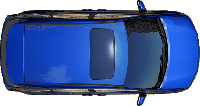
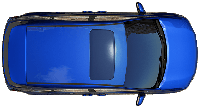
2D_graphic tunning

Changed region(s): [[0.0, 0.0, 1.0, 1.0], [0.69, 0.3113, 0.75, 0.3396]]

diff --git a/2D_graphic/src/car.cpp b/2D_graphic/src/car.cpp
@@ -27,6 +27,7 @@ void Car::look_around(std::vector<std::shared_ptr<Car>> &all_cars)
     can_accelerate = true;
     need_breaking = false;
     can_change_line = true;
+    car_in_front_speed_delta = 0;
     
     for(auto car : all_cars)
     {
@@ -42,7 +43,7 @@ void Car::look_around(std::vector<std::shared_ptr<Car>> &all_cars)
         auto car_pos_y = car->get_pos_y();
 
         // check if i'm in fast line
-        if(std::fabs(pos_y) > 0.65)
+        if(std::fabs(pos_y) < 0.65)
             in_fast_line = true;
 
         auto in_front = direction == 1 ? pos_x > car_pos_x : pos_x < car_pos_x;
@@ -53,7 +54,13 @@ void Car::look_around(std::vector<std::shared_ptr<Car>> &all_cars)
 
         // check if car is in front of me
         if(in_front && distance < 1.4 && same_line)
+        {
             car_in_front = true;
+            
+            auto speed_delta = std::fabs(curr_speed - car->get_curr_speed());
+            if(speed_delta > car_in_front_speed_delta)
+                car_in_front_speed_delta = speed_delta;
+        }
 
         // check if i need to brake
         if(car_in_front && car->get_curr_speed() < curr_speed)
@@ -84,10 +91,15 @@ void Car::drive(std::vector<std::shared_ptr<Car>> &all_cars)
         {
             // can I change line?
             if(can_change_line)
+            {
                 // yes - change line
-                acceleration_y = 0.01;
-
-            acceleration -= 0.05;
+                acceleration_y -= 0.001;
+                acceleration -= car_in_front_speed_delta / 500;
+            }
+            else
+            {
+                acceleration -= 0.05;
+            };
         };
 
         // don't need to brake anymore
@@ -99,8 +111,16 @@ void Car::drive(std::vector<std::shared_ptr<Car>> &all_cars)
             acceleration += 0.01;
 
         // if I'm in fast line can I change to slow line?
-        if(in_fast_line && can_change_line && !acceleration_y)
-            acceleration_y = -0.01;
+        if(in_fast_line && can_change_line)
+        {
+            if(acceleration_y < 0)
+                acceleration_y = 0;
+            
+            acceleration_y += 0.001;
+        }
+        
+        if(!can_accelerate && car_in_front && std::fabs(pos_y) < 1)
+            acceleration_y = acceleration_y * 2;
 
         // stay in lines
         if(direction == -1)
@@ -133,6 +153,12 @@ void Car::drive(std::vector<std::shared_ptr<Car>> &all_cars)
         };
 
         // check if I not breaking or accelerating to quick
+        if(acceleration_y > 0.01)
+            acceleration_y = 0.01;
+
+        if(acceleration_y < -0.01)
+            acceleration_y = -0.01;
+            
         if(acceleration < -10)
             acceleration = -10;
 
@@ -149,17 +175,20 @@ void Car::drive(std::vector<std::shared_ptr<Car>> &all_cars)
         if(curr_speed < 100)
             curr_speed = 100;
 
+
+
         pos_x += ((-direction * curr_speed) / 2400.0);
-        auto change_y = acceleration_y * (curr_speed / 140);
+
+        auto change_y = acceleration_y * std::fabs((curr_speed / 140));
         pos_y = pos_y > 0 ? pos_y + change_y : pos_y - change_y;
     }
     else
     {
-        type = 4;
+        type = rand() % 5;
         direction = rand() % 2 ? 1 : -1;
 
         pos_x = direction == 1 ? 25 : 0;
-        pos_y = direction == 1 ? -0.3 : 0.3;
+        pos_y = direction == 1 ? -1 : 1;
 
         curr_speed = max_speed = rand() % 50 + 100;
         acceleration = 0;
@@ -229,4 +258,12 @@ float Car::get_pos_y()
 float Car::get_curr_speed()
 {
     return curr_speed;
+};
+
+
+
+
+float Car::get_rotation()
+{
+    return acceleration_y;
 };

diff --git a/2D_graphic/src/application.cpp b/2D_graphic/src/application.cpp
@@ -85,9 +85,9 @@ int MyApp::init(int argc, char *argv[])
     for(int i = 0; i < 5; i++)
     {
         std::string file = std::string("images/car") + std::to_string(i + 1) + ".png";
-        cars_images[i] = gdk_pixbuf_new_from_file(file.c_str(), 0);
-        if(!cars_images[i])
-            std::cout << i << std::endl;
+        auto img = gdk_pixbuf_new_from_file(file.c_str(), 0);
+        cars_images[i] = gdk_pixbuf_scale_simple(img, gdk_pixbuf_get_width(img) / 3, gdk_pixbuf_get_height(img) / 3, GDK_INTERP_BILINEAR);
+        g_object_unref(img);
     };
 
     for(int i = 0; i < NUM_CARS; i++)
@@ -166,13 +166,13 @@ void MyApp::draw_frame()
         r1.x = r1.x - middle_of_highway_x;
         r1.x += middle_of_screen_x + (12 - car->get_pos_x());
         
-        r1.y = window_size_y / 2 + (83 + car->get_pos_y() * 70) * zoom - std::floor(gdk_pixbuf_get_width(img) / 2.0) * zoom;
+        r1.y = window_size_y / 2 + (15 + car->get_pos_y() * 70) * zoom - std::floor(gdk_pixbuf_get_width(img) / 2.0) * zoom;
 
         r1.width = gdk_pixbuf_get_width(img) * zoom - 1;
         r1.height = gdk_pixbuf_get_width(img) * zoom - 1;
         
         if(gdk_rectangle_intersect(&r1, &r2, &dest)) 
-            gdk_pixbuf_composite(img, frame, dest.x, dest.y, dest.width - 1, dest.height - 1, r1.x - 1, r1.y - 1, zoom / 3.0, zoom / 3.0, GDK_INTERP_NEAREST, 255);
+            gdk_pixbuf_composite(img, frame, dest.x, dest.y, dest.width - 1, dest.height - 1, r1.x - 1, r1.y - 1, zoom, zoom, GDK_INTERP_BILINEAR, 255);
         
         if(car->get_direction() == 1)
             g_object_unref(img);

diff --git a/2D_graphic/src/car.hpp b/2D_graphic/src/car.hpp
@@ -16,6 +16,7 @@ private:
     float curr_speed;
     float acceleration;
     float acceleration_y;
+    float car_in_front_speed_delta;
 
     float pos_x;
     float pos_y;
@@ -48,6 +49,7 @@ public:
     float get_pos_y();
 
     float get_curr_speed();
+    float get_rotation();
 };
 
 
